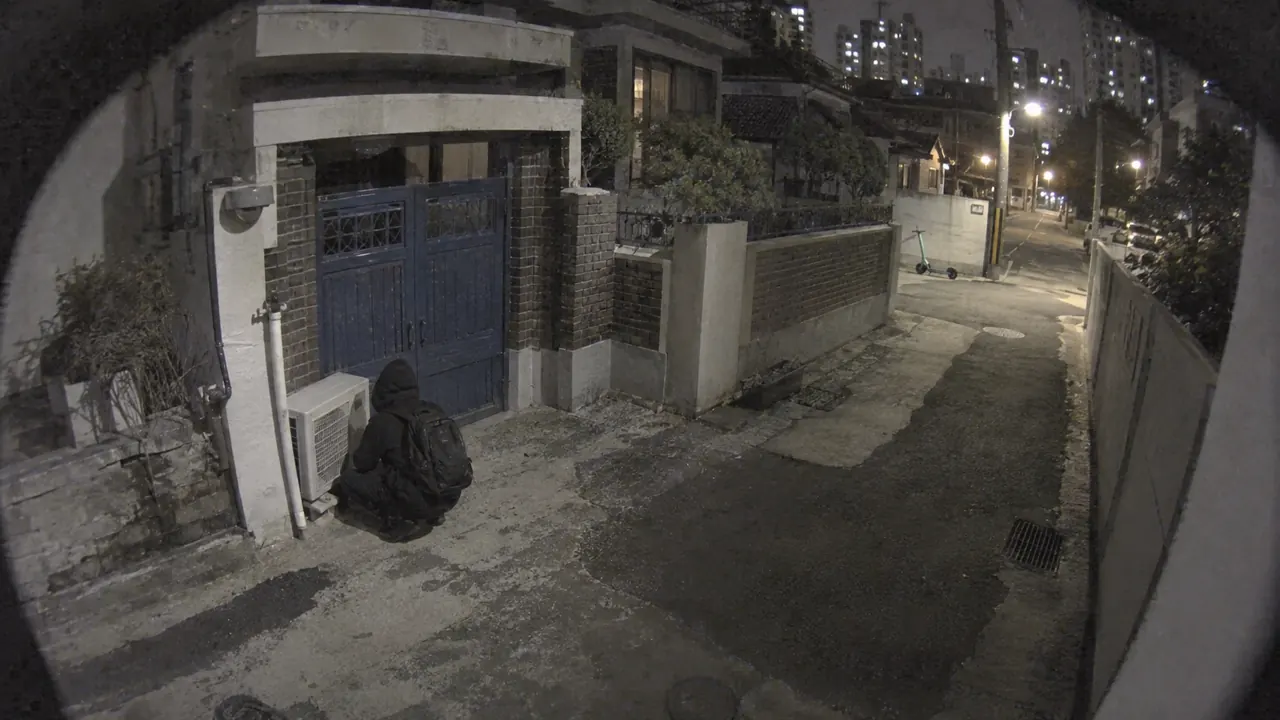
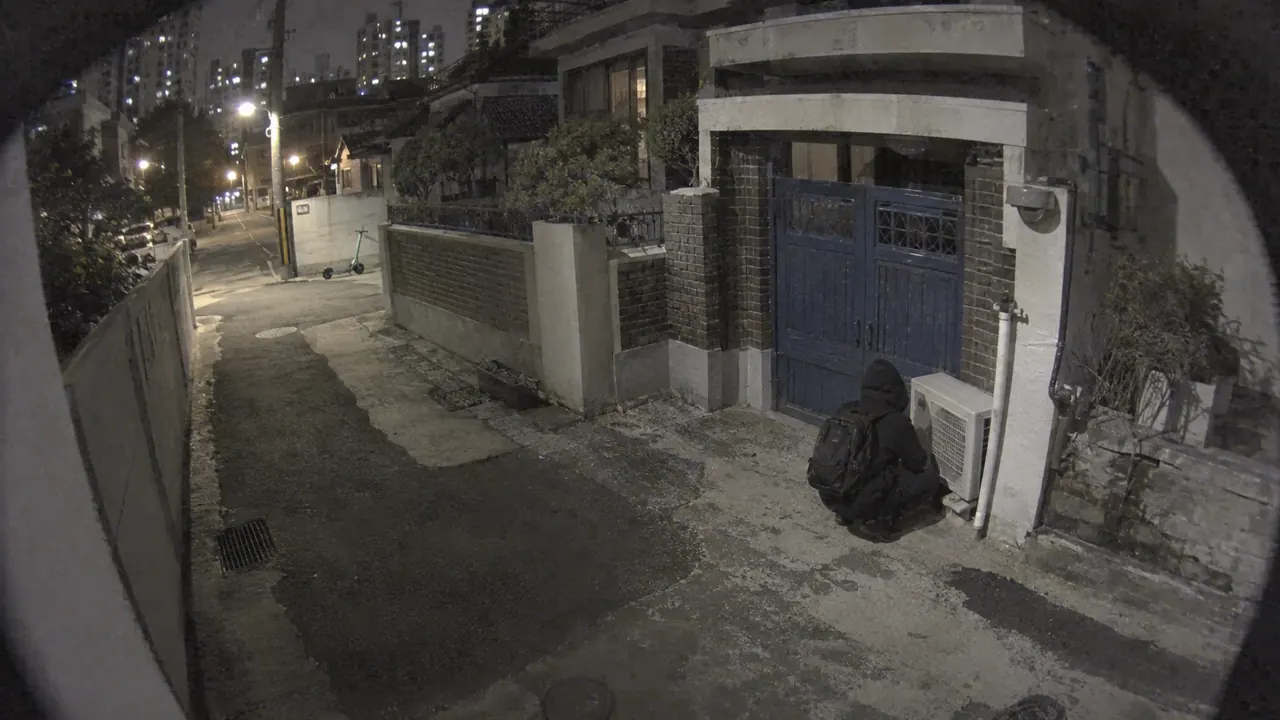
CASE 13's back-door camera frames are no longer mirror images of the alley: seen from the store side, the blue gate and the outdoor unit are on the right with the unit nearer the camera, as in the drop photo and the neighbourhood post. The counter monitor's CH3 pane now shows that alley with the blu

diff --git a/cases/c13-drop-2023.js b/cases/c13-drop-2023.js
@@ -540,11 +540,11 @@
       cctv_drop: { use: '후면 카메라 22:14 — 실외기 앞에 쪼그린 후드 남성과 골목 입구의 초록 킥보드', ratio: '16:9',
         svg: alley('<ellipse cx="128" cy="96" rx="9" ry="10" fill="#0c0d0e"/><circle cx="126" cy="83" r="5.5" fill="#0c0d0e"/><path d="M84 66v18l12 2" stroke="#3f9a55" stroke-width="2.5" fill="none"/><circle cx="84" cy="88" r="3" fill="#161616"/><circle cx="96" cy="89" r="3" fill="#161616"/>'),
         must: '높은 고정 카메라 시점 · 파란 철 대문 옆 에어컨 실외기 · 그 앞에 쪼그려 앉은 검은 후드·백팩 남성(뒷모습) · 골목 입구에 선 초록색 공유킥보드',
-        prompt: 'Fixed CCTV frame from a high rear-wall camera looking down a narrow residential alley at night: an air-conditioner outdoor unit beside a blue metal gate, a man in a black hoodie and black backpack crouching in front of the unit with his back to the camera, a green shared electric kick-scooter parked at the alley entrance. Fisheye distortion, night-mode grey noise, compression blocking.' },
+        prompt: 'Fixed CCTV frame from a high rear-wall camera looking down a narrow residential alley at night: on the right-hand side a villa wall with a blue metal gate, and just right of the gate, nearer the camera, an air-conditioner outdoor unit; the alley runs away to the left toward a lit street; a man in a black hoodie and black backpack crouching in front of the unit with his back to the camera, a green shared electric kick-scooter parked far off at the alley entrance on the left. Fisheye distortion, night-mode grey noise, compression blocking.' },
       cctv_pick: { use: '후면 카메라 00:18 — 남색 패딩 남성이 실외기 아래를 더듬음 (피해자)', alt: '후면 카메라 00:18 — 남색 패딩 남성이 실외기 아래를 더듬음', ratio: '16:9',
         svg: alley('<ellipse cx="130" cy="98" rx="10" ry="9" fill="#1d2c48"/><circle cx="124" cy="86" r="5" fill="#121a2a"/><path d="M134 96l6 -4" stroke="#1d2c48" stroke-width="3"/>'),
         must: '같은 골목 · 같은 실외기 · 남색 패딩 남성이 무릎을 굽혀 실외기 아래로 손을 넣는 자세 (얼굴 안 보임)',
-        prompt: 'The same fixed CCTV view of the night alley: a young man in a navy padded jacket kneeling by the air-conditioner outdoor unit next to the blue gate, reaching one hand underneath it, face turned away from the camera. Fisheye, grainy night-mode noise, compression artifacts.' },
+        prompt: 'The same fixed CCTV view of the night alley (blue gate and outdoor unit on the right-hand side, the alley running away to the left): a young man in a navy padded jacket kneeling by the air-conditioner outdoor unit next to the blue gate, reaching one hand underneath it, face turned away from the camera. Fisheye, grainy night-mode noise, compression artifacts.' },
       alley_day: { use: '동네 커뮤니티 글 — 편의점 뒤 골목, 실외기 쪽으로 돌려 놓은 돔 카메라', ratio: '4:3',
         svg: pic('<rect width="200" height="40" fill="#c9d4db"/><rect y="40" width="200" height="85" fill="#a8a49c"/><rect y="125" width="200" height="25" fill="#77736b"/><rect x="10" y="46" width="44" height="80" fill="#2f5f9a"/><rect x="80" y="92" width="52" height="34" fill="#dcdcd6" stroke="#999"/><circle cx="98" cy="109" r="11" fill="#b3b2ab"/><rect x="150" y="28" width="50" height="16" fill="#5a5d60"/><path d="M168 44a6 6 0 0 0 12 0z" fill="#222"/>', '#a8a49c', '낮의 골목 — 파란 대문과 실외기, 돔 카메라'),
         must: '파란 철 대문 · 대문 옆 에어컨 실외기 · 담 너머 건물 뒷벽의 돔 카메라가 실외기 쪽을 향함',

diff --git a/img/manifest.js b/img/manifest.js
@@ -232,9 +232,9 @@ window.MG.images = {
   "c12/wp": "img/c12/wp.webp?v=0f96bedd",
   "c13/alley_day": "img/c13/alley_day.webp?v=fb4eac48",
   "c13/bread": "img/c13/bread.webp?v=63a6d05a",
-  "c13/cctv_drop": "img/c13/cctv_drop.webp?v=93029ff9",
-  "c13/cctv_pick": "img/c13/cctv_pick.webp?v=98883136",
-  "c13/counter": "img/c13/counter.webp?v=76f23fb3",
+  "c13/cctv_drop": "img/c13/cctv_drop.webp?v=869ee253",
+  "c13/cctv_pick": "img/c13/cctv_pick.webp?v=a9d6ff50",
+  "c13/counter": "img/c13/counter.webp?v=097a9714",
   "c13/cover": "img/c13/cover.webp?v=15597da9",
   "c13/cover_bg": "img/c13/cover_bg.webp?v=8eeae6c4",
   "c13/cover_s": "img/c13/cover_s.webp?v=1495581b",
